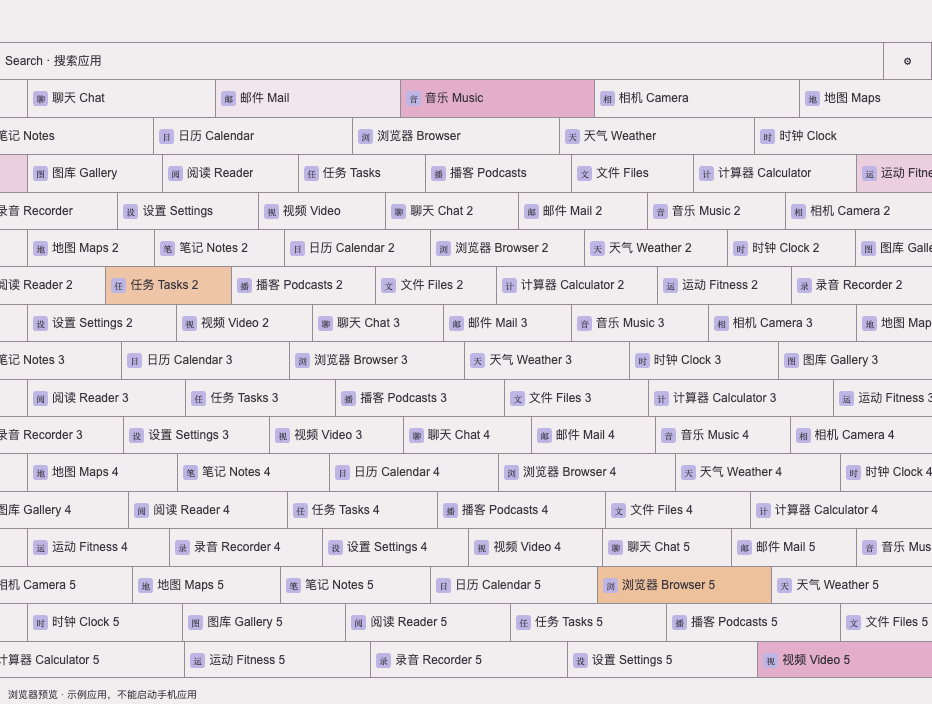
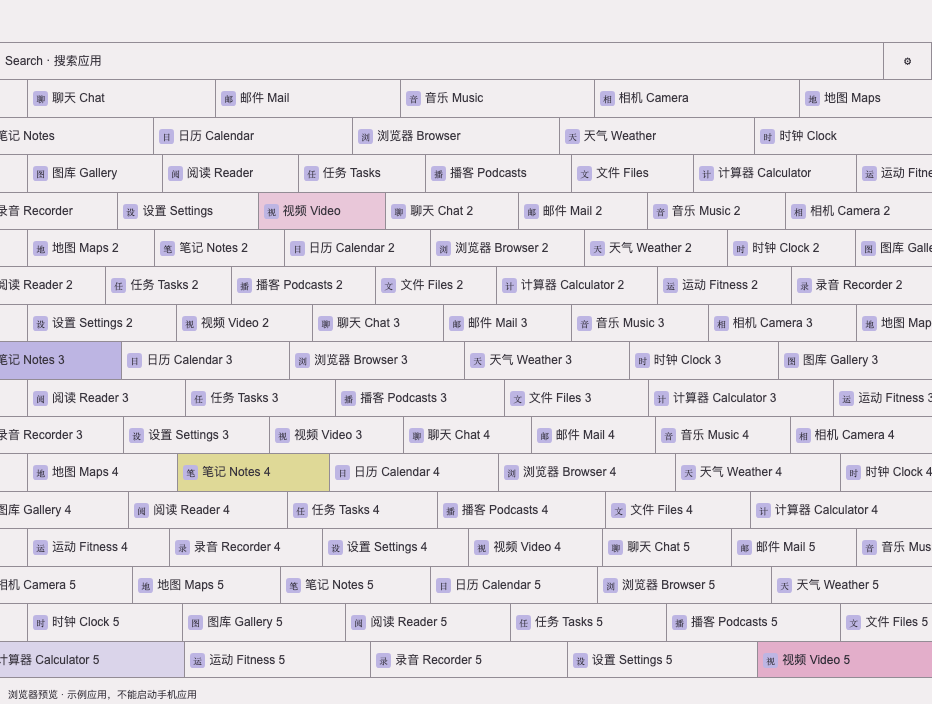
Restore slow automatic flow as default and verify manual acceleration

diff --git a/theme/app.js b/theme/app.js
@@ -10,7 +10,7 @@ let apps = [],
     size: 12,
     dark: false,
     paint: false,
-    motion: false,
+    motion: true,
     shimmer: false,
     speed: 12,
     colors: {},
@@ -31,7 +31,7 @@ opts.favorites = Array.isArray(opts.favorites)
 if (isPreview && !localStorage.getItem("fold-button-wall")) {
   opts.favorites = demoApps.slice(0, 10).map((a) => a.packageName);
   opts.motion = true;
-  opts.shimmer = true;
+  opts.shimmer = false;
 }
 function save() {
   try {

diff --git a/tests/browser_test.py b/tests/browser_test.py
@@ -74,7 +74,7 @@ with sync_playwright() as p:
     data=[{'label':f'Test App {i:03}','packageName':f'test.app{i}'} for i in range(130)]
     page=browser.new_page(viewport={'width':475,'height':750},has_touch=True)
     page.on('pageerror',lambda e:errors.append(str(e)))
-    page.add_init_script('''window.__calls=[];window.__failLaunch=false;localStorage.setItem('fold-button-wall',JSON.stringify({motion:true,shimmer:true}));
+    page.add_init_script('''window.__calls=[];window.__failLaunch=false;
       window.Bridge=new Proxy({}, {get:(_,name)=>{
       if(name==='getAppsURL')return ()=>location.origin+'/apps';
       if(name==='getSystemBarsWindowInsets'||name==='getDisplayCutoutWindowInsets')return ()=>JSON.stringify({top:42,bottom:26,left:0,right:0});
@@ -82,6 +82,23 @@ with sync_playwright() as p:
       return (...args)=>{window.__calls.push({name,args});return !window.__failLaunch};}});''')
     page.route('**/apps',lambda route:route.fulfill(json={'apps':data}))
     page.goto(url);page.wait_for_selector('.track')
+    # Fresh Bridge installs must flow before any touch, accelerate, then settle.
+    def sample_x():
+        return page.locator('.track').first.evaluate('(e)=>new DOMMatrixReadOnly(getComputedStyle(e).transform).m41')
+    x0=sample_x();page.wait_for_timeout(800);x1=sample_x()
+    slow=abs(x1-x0)/.8
+    assert 7<slow<17,slow
+    first=page.locator('.lane').nth(1).bounding_box();fy=first['y']+first['height']/2
+    page.mouse.move(100,fy);page.mouse.down()
+    for xx in range(120,321,20):
+        page.mouse.move(xx,fy);page.wait_for_timeout(20)
+    page.mouse.up()
+    x0=sample_x();page.wait_for_timeout(150);boost=abs(sample_x()-x0)/.15
+    assert boost>slow*3,(slow,boost)
+    page.wait_for_timeout(2300)
+    x0=sample_x();page.wait_for_timeout(800);settled=abs(sample_x()-x0)/.8
+    assert 7<settled<17,settled
+    results['bridge_default_slow_flow_manual_boost_return_to_slow']='passed'
     row=page.locator('.lane').nth(3).bounding_box();y=row['y']+row['height']/2
     page.mouse.move(360,y);page.mouse.down();page.mouse.move(80,y,steps=12);page.mouse.up()
     assert not page.evaluate('__calls.some(c=>c.name==="requestLaunchApp")')

diff --git a/README.md b/README.md
@@ -1,12 +1,12 @@
 # Fold Tile · 方框流动桌面（实验版）
 
-一个运行在 **Bridge Launcher** 上的 Android 桌面主题。应用以细单线矩形排列，各行交错流动，可以用手指拨动；Search 固定在第一行，常用应用放在前面。
+一个运行在 **Bridge Launcher** 上的 Android 桌面主题。应用以细单线矩形排列，各行缓慢交错自动流动，手指拨动可以加速，松手后惯性衰减并恢复慢速流动；Search 固定在第一行，常用应用放在前面。
 
-**当前定位：个人实验，欢迎自行修改。** 自动流动和变色曾出现较高负载与发热，手机端默认关闭这两项。手动拨动已在外屏确认恢复；最近一次优化后的内屏、长期温度和耗电仍待验证。
+**当前定位：个人实验，欢迎自行修改。** 公开主题默认开启慢速自动流动（12 像素/秒），自动变色默认关闭。自动动效曾出现较高负载与发热，可在设置中关闭；本项目仍在优化。手动拨动已在外屏确认恢复；最近一次优化后的内屏、长期温度和耗电仍待验证。
 
 这是主题和兼容性补丁项目，需要 Bridge Launcher 承载。使用 Android 原有解锁和锁屏，不接管指纹或通知。
 
-[观看 25 秒竖屏演示：真实 App 图标、横向拨动与 Fold8 内外屏比例](https://github.com/pandongxu0873-coder/fold-tile-launcher/releases/download/v0.1.0/fold-tile-promo.mp4)
+[观看 25 秒竖屏演示：真实 App 图标、慢速自动流动、手动加速与 Fold8 内外屏比例](https://github.com/pandongxu0873-coder/fold-tile-launcher/releases/download/v0.1.1/fold-tile-promo.mp4)
 
 视频使用主题实际响应触摸的浏览器录制，并展示平板尺寸排布；不等于全机型实测。真实 App 图标仅用于演示，不随主题分发。
 
@@ -20,7 +20,7 @@
 - 自选最多 15 个常用应用，调整顺序，集中在 Search 下方。
 - 点按打开应用，长按查看应用信息；拖动避免误打开。
 - 新安装、更新、卸载应用自动同步；返回桌面再次核对列表。
-- 手机端默认关闭自动流动和自动变色，手动拖动及惯性仍可用；静止时停止动画循环。自动动效可在设置中开启。
+- 默认慢速自动流动，手动拨动直接跟手，松手后惯性衰减并回到慢速自动流动。自动变色默认关闭；关闭全部动效后，惯性结束即停止动画循环。
 - 桌面离开前台或锁屏后暂停动效。自动动画曾在实机测试中出现较高负载与发热，当前限速与按需绘制的效果仍需长期验证，不承诺低耗电。
 - 浏览器预览使用虚构数据和自制字符图标，不读取手机信息。
 
@@ -31,7 +31,8 @@
 3. 解压后，将整个 `fold-tile-theme` 文件夹放到手机存储，例如 `Download/fold-tile-theme/`。HTML、JS 和 CSS 必须放在一起。
 4. 在 Bridge 的项目设置中选择这个文件夹，以 `index.html` 作为入口。按 Bridge 提示授予它载入本地主题所需的存储访问。
 5. Android 系统设置 → 应用 → 选择默认应用 → 主屏幕应用，选择 Bridge。
-6. 点第一行的齿轮 → **编辑常用应用**，选择应用并用 ↑ ↓ 调整顺序。
+6. 已使用旧版且关闭动效的用户，请在齿轮设置中开启 **自动流动**，速度设为 **12**；新版保留你已有的设置，不会强制覆盖。
+7. 点第一行的齿轮 → **编辑常用应用**，选择应用并用 ↑ ↓ 调整顺序。
 
 Bridge alpha 要求的“所有文件访问”权限范围由宿主决定。这个主题只调用应用列表、图标、启动和应用信息接口；设置保存在本机 WebView 存储中，不使用远程脚本、统计或上传服务。
 
